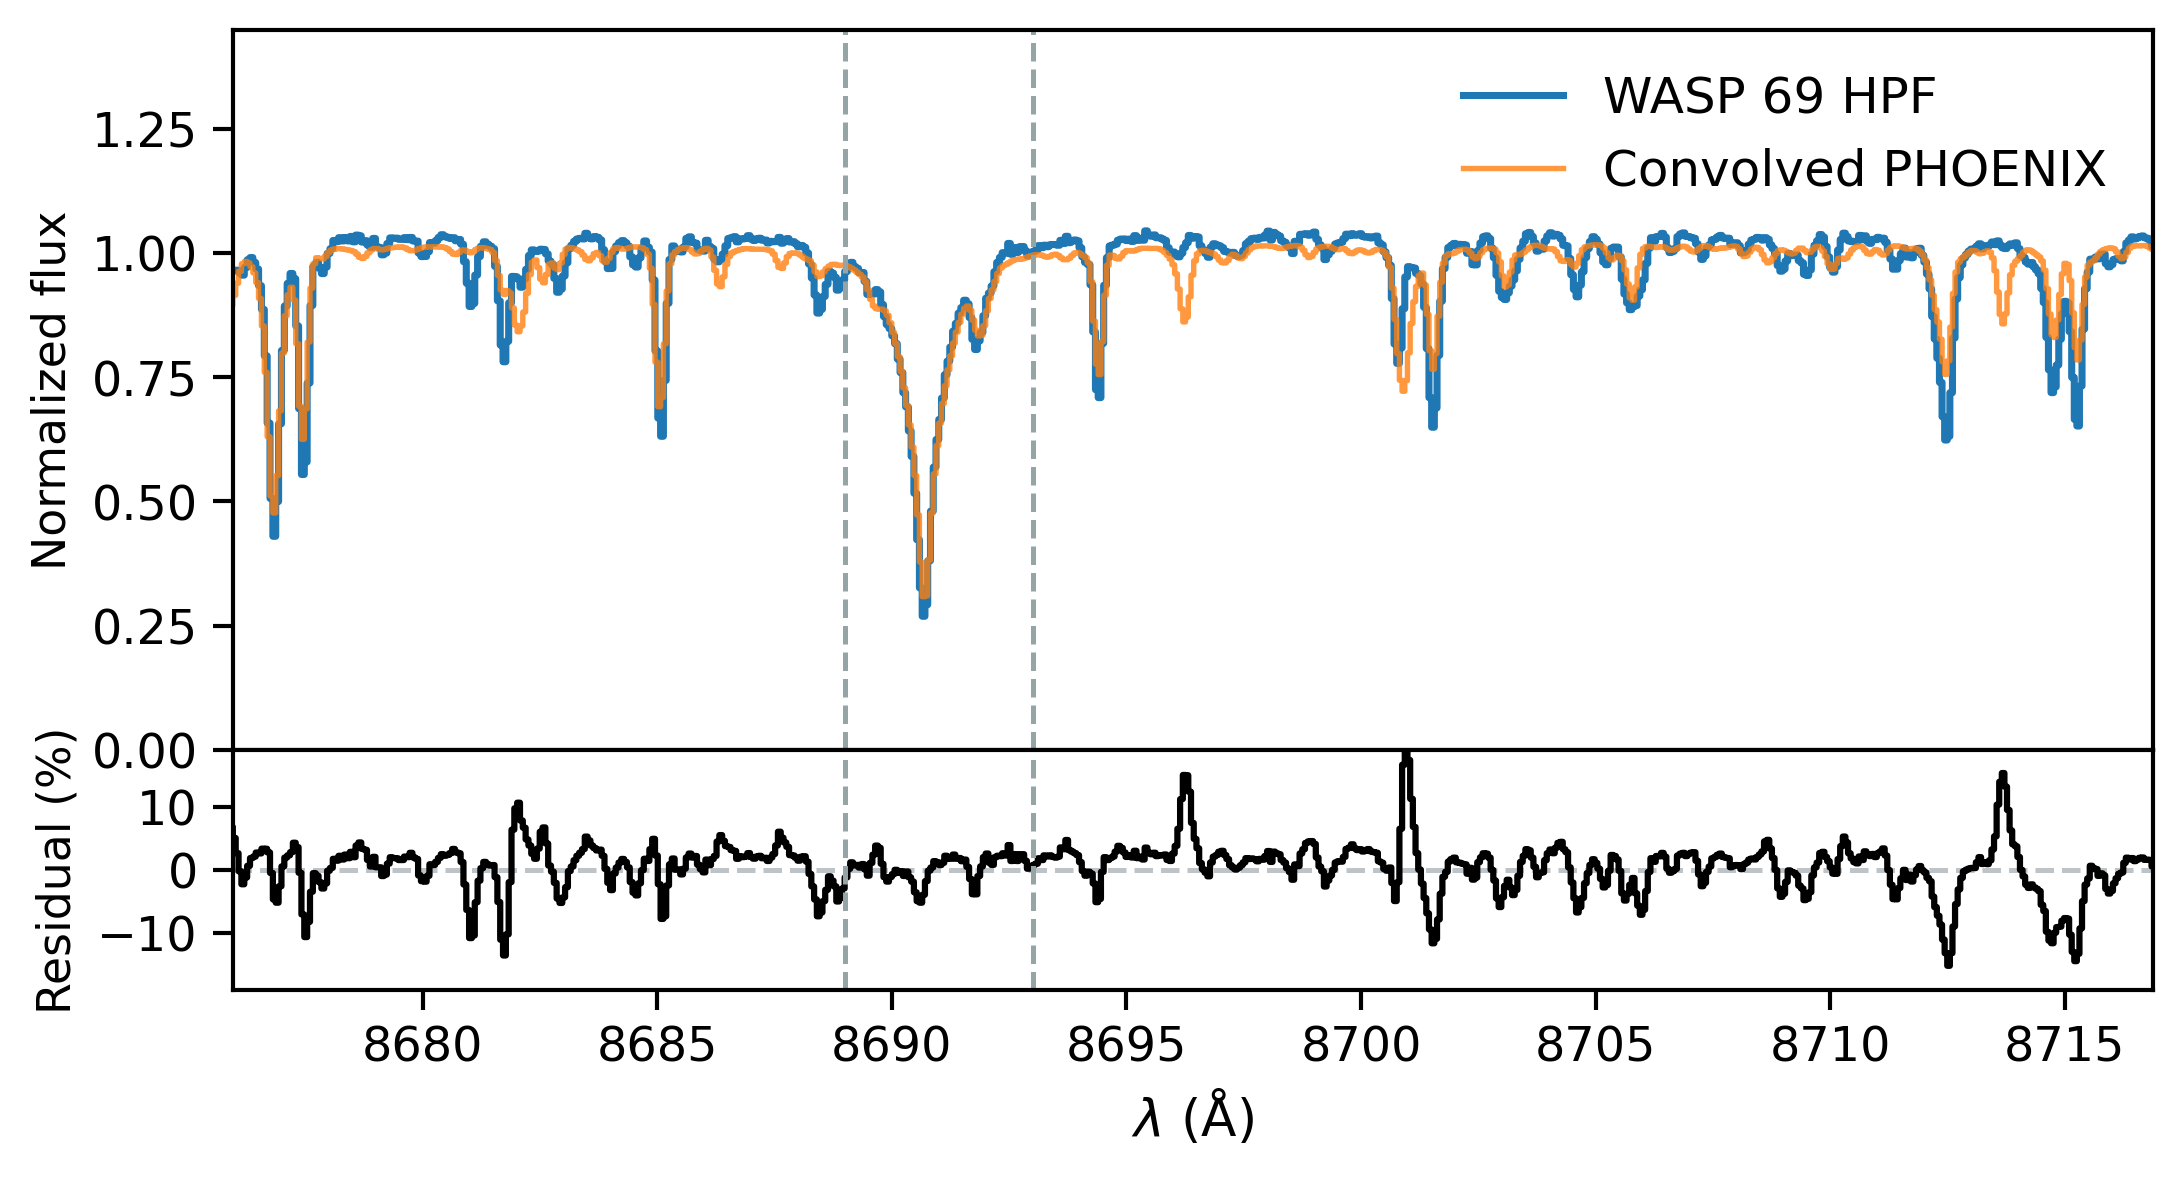
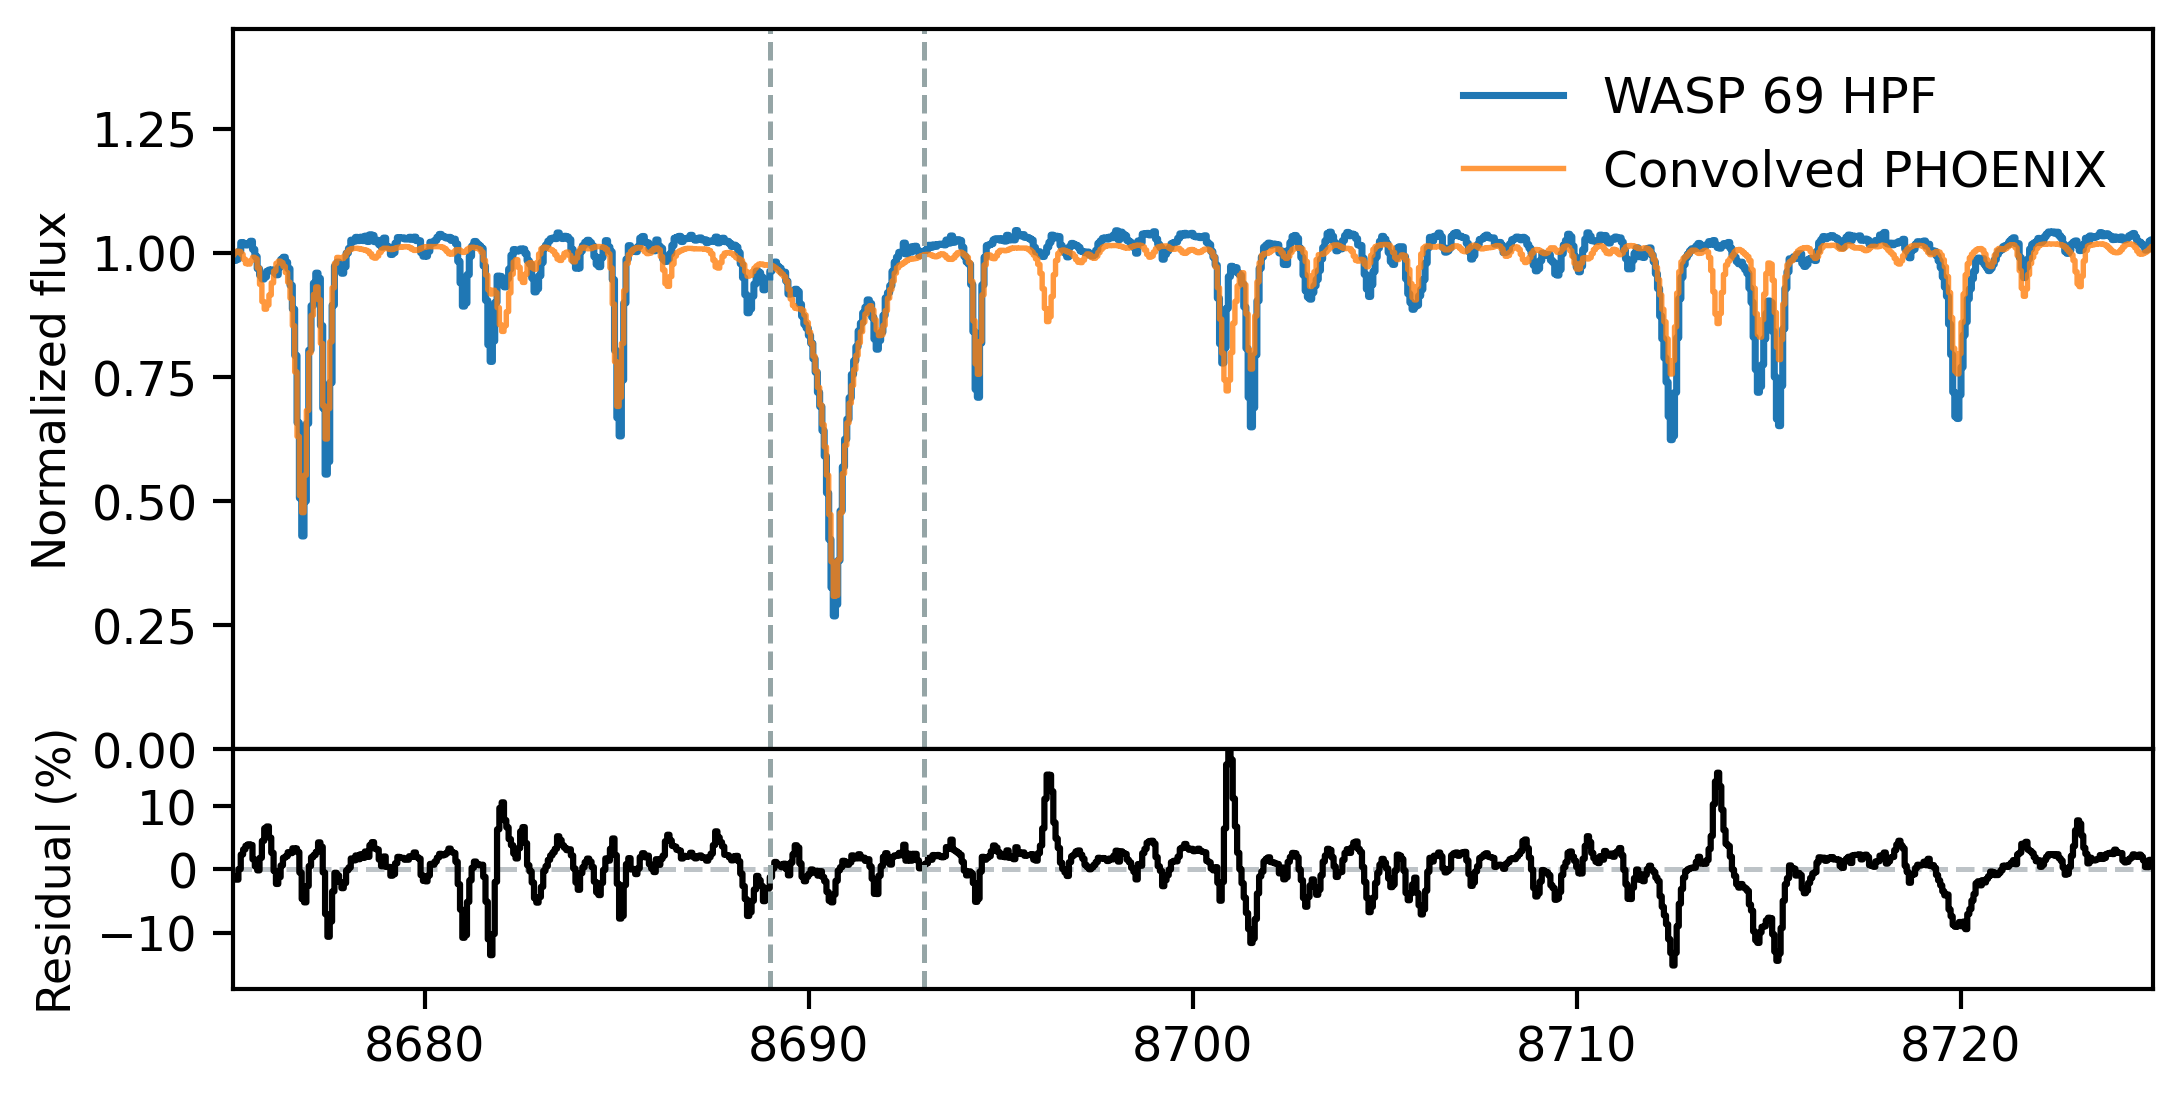
Woohoo, we made 4 figures today

Changed region(s): [[0.0, 0.6176, 0.9973, 0.9882], [0.0, 0.0618, 0.9973, 0.5867], [0.0623, 0.0926, 0.0935, 0.1544]]

diff --git a/experiments/04_full_bandwidth_HPF/04_B_train_on_data.py b/experiments/04_full_bandwidth_HPF/04_B_train_on_data.py
@@ -7,13 +7,28 @@ from blase.emulator import SparsePhoenixEmulator
 import matplotlib.pyplot as plt
 from gollum.phoenix import PHOENIXSpectrum
 import numpy as np
-from muler.hpf import HPFSpectrumList
+from muler.hpf import HPFSpectrumList, HPFSpectrum
 import copy
+import astropy.units as u
 
 if torch.cuda.is_available():
     device = "cuda"
 else:
     device = "cpu"
+
+from astropy.io import fits
+
+# Fetch the real HPF data
+# We will demo on WASP 69
+hdus = fits.open("../../data/WASP_69_hpf_stack.fits")
+
+# Numpy arrays: 1 x N_pix
+data = HPFSpectrum(
+    flux=hdus[1].data["flux"] * u.dimensionless_unscaled,
+    spectral_axis=hdus[1].data["wavelength"] * u.Angstrom,
+)
+data = data.remove_nans()
+
 
 # Pre-process the model as described in the paper
 spectrum = PHOENIXSpectrum(teff=4700, logg=4.5)
@@ -22,22 +37,9 @@ spectrum = spectrum.normalize()
 continuum_fit = spectrum.fit_continuum(polyorder=5)
 spectrum = spectrum.divide(continuum_fit, handle_meta="ff")
 
-# Fetch the real HPF data
-# For now we will use some data from another project
-fn = "Goldilocks_20191022T014138_v1.0_0004.spectra.fits"
-dir = "/home/gully/GitHub/blase/test/data/"
-dir = os.path.expanduser(dir)
-raw_data = HPFSpectrumList.read(file=dir + fn)  # Just one order for now
-raw_data = raw_data.sky_subtract().deblaze().normalize().trim_edges((8, 2040))
-raw_data = raw_data.stitch().mask_tellurics().normalize()
-
-mask = (raw_data.wavelength.value > 8450) & (raw_data.wavelength.value < 8900)
-data = raw_data.apply_boolean_mask(mask).normalize()
-
-
-# Numpy arrays: 1 x N_pix
 wl_native = spectrum.wavelength.value
 flux_native = spectrum.flux.value
+
 
 # Create the emulator and load a pretrained model
 prominence = 0.01
@@ -55,7 +57,7 @@ target = (
 state_dict_post = torch.load("emulator_T4700g4p5_prom0p01_HPF.pt")
 emulator.load_state_dict(state_dict_post)
 
-emulator.radial_velocity = nn.Parameter(torch.tensor(27.6, device=device))
+emulator.radial_velocity = nn.Parameter(torch.tensor(-9.628, device=device))
 emulator.radial_velocity.requires_grad = True
 emulator.lam_centers.requires_grad = False
 emulator.amplitudes.requires_grad = True
@@ -65,14 +67,18 @@ emulator.gamma_widths.requires_grad = True
 
 from blase.emulator import EchelleModel
 
-model = EchelleModel(data.spectral_axis.bin_edges.value, wl_native.cpu())
+model = EchelleModel(
+    data.spectral_axis.bin_edges.value.astype(np.float64), wl_native.cpu()
+)
 model.to(device)
 model.ln_vsini = nn.Parameter(torch.log(torch.tensor(1.0, device=device)))
 
-data_target = torch.tensor(data.flux.value, device=device, dtype=torch.float64)
+data_target = torch.tensor(
+    data.flux.value.astype(np.float64), device=device, dtype=torch.float64
+)
 
 data_wavelength = torch.tensor(
-    data.wavelength.value, device=device, dtype=torch.float64
+    data.wavelength.value.astype(np.float64), device=device, dtype=torch.float64
 )
 
 loss_fn = nn.MSELoss(reduction="mean")
@@ -83,7 +89,7 @@ optimizer = optim.Adam(
     0.01,
     amsgrad=True,
 )
-n_epochs = 2000
+n_epochs = 1000
 losses = []
 
 t_iter = trange(n_epochs, desc="Training", leave=True)

diff --git a/paper/paper1/ms.tex b/paper/paper1/ms.tex
@@ -246,6 +246,21 @@ We see some narrow lines devolve into missing continuum opacity, the favored tra
 
 
 \section{Refining the model from data with transfer learning}
+
+\begin{figure}[hbt!]
+    \centering
+    \includegraphics[width=0.8\textwidth]{figures/blase_WASP69_demo.png}
+    \caption{WASP 69 observed with HPF, compared to a $T_{\mathrm{eff}}=4700\;$K,  $\log{g}=4.5$ solar metallicity PHOENIX model warped to $v\sin{i}=2.2$~km/s, $RV=-9.6$~km/s, and HPF resolving power.}
+    \label{fig_WASP69_demo}
+\end{figure}
+
+\begin{figure}[hbt!]
+    \centering
+    \includegraphics[width=0.8\textwidth]{figures/blase_WASP69_transfer_learned.png}
+    \caption{Semi-empirical model of WASP 69 transfer-learned with \texttt{blas\'e}. }
+    \label{fig_WASP69_transferred}
+\end{figure}
+
 \begin{outline}
     \1 Augment the pre-trained model with extrinsic parameters:
     \2 vsini and RV
